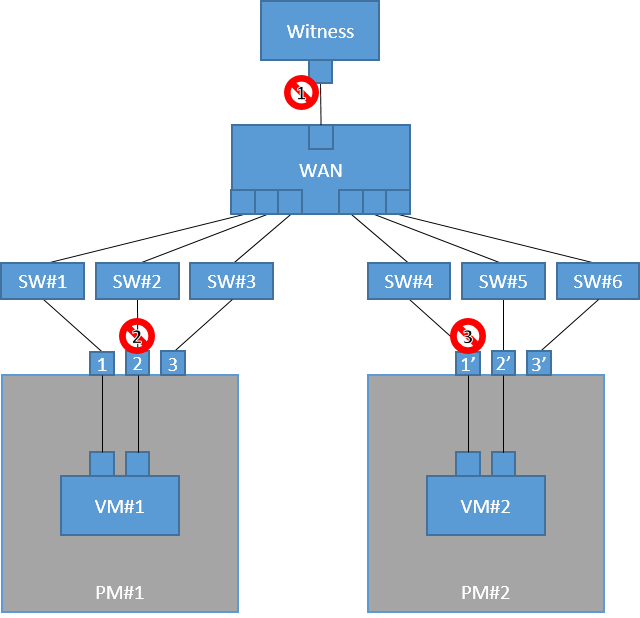
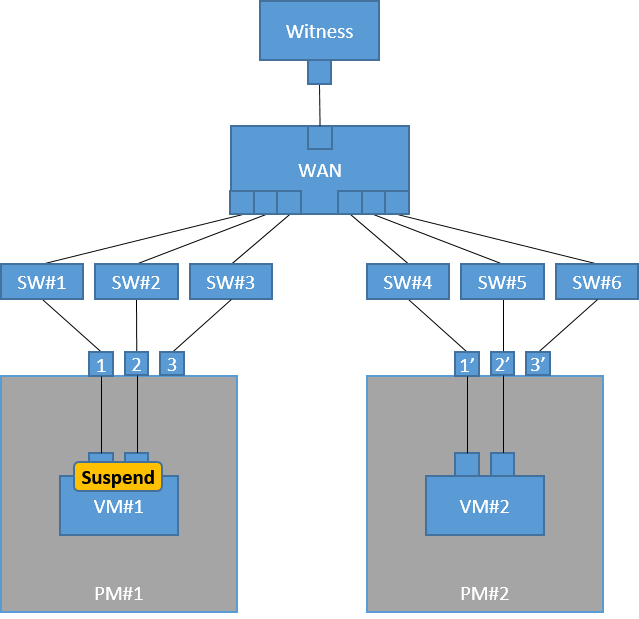
Update README.md to have Forced Stop Test.

diff --git a/README.md b/README.md
@@ -26,32 +26,45 @@ This document describes the test for network and the expected results for HA/DR 
 
 ## Network Partition test
 
-Start from All Green State that FOG runs on VM#1. Disconnecting VM#1 from the cluster, then VM#1 acknowledges itself as isolated and executes suicide (ESD) to maintain consistency.
+Start from All Green State that FOG runs on VM#1. Disconnecting VM#1 from the cluster, then VM#1 acknowledges itself as isolated from the cluster and executes suicide (ESD) to maintain consistency of the system.
 
 ![Pic.1](./image1.png)
 
-    
 | No. | Operation | Result |
 |--   |--         |--      |
-| 1.  | Remove the network cable from `NIC 1` and `NIC 2` | Wait for ESD of `VM#1` and failover to `VM#2`. Make sure the business continues.
-| 2.  | Connect the network cable to `NIC 1` and `NIC 2` then boot `VM#1` | Wait for All Green State.
-| 3.  | Remove the network cable from `NIC 1'` and `NIC 2'` | Wait for ESD of `VM#2` and failover to `VM#1`. Make sure the business continues.
-| 4.  | Connect the network cable to `NIC 1'` and `NIC 2'` then boot `VM#2`| Wait for All Green State.
+| 1.  | Remove the network cable from NIC `1` and NIC `2`. | Wait for ESD of `VM#1` and for failover to `VM#2`. Make sure the business continues.
+| 2.  | Connect the network cable to NIC `1` and NIC `2` then boot `VM#1`. | Wait for All Green State.
+| 3.  | Remove the network cable from NIC `1'` and NIC `2'`. | Wait for ESD of `VM#2` and for failover to `VM#1`. Make sure the business continues.
+| 4.  | Connect the network cable to NIC `1'` and NIC `2'` then boot `VM#2`.| Wait for All Green State.
+
+## Forced Stop test
+
+Start from All Green State that FOG runs on `VM#1`. Suspending `VM#1` to simulate delayed processing. `VM#2` acknowledges HBTO of `VM#1`, then processing failover. On the failover, `VM#1` is stopped (powered off) by the Forced Stop function. Confirm `VM#1` can be powered on and cannot be resumed.
+
+![Pic.2](./image2.png)
+
+| No. | Operation | Result |
+|--   |--         |--      |
+| 1.  | Suspend `VM#1` by the hypervisor manager. | Wait for HBTO of `VM#1` and for failover to `VM#2`. Make sure `VM#1` becomes stopped (power-off) state and the business continues.
+| 2.  | Power-on `VM#1`. | Wait for All Green State.
+| 3.  | Suspend `VM#2` by the hypervisor manager. | Wait for HBTO of `VM#2` and for failover to `VM#1`. Make sure `VM#2` becomes stopped (power-off) state and the business continues.
+| 4.  | Power-on `VM#2`. | Wait for All Green State.
 
 
 ## Multiple Failures test
 
-Even if an HA cluster is used, the system may stop. This test is aim to have an experience one of such cases.
+Even if an HA cluster is used, the system may stop on multiple failures. This test aims to have an experience for one of such cases.
 
-**In general operation, when an HA cluster has the first failure, it is expected to be repaired before the second failure.**
 
-This also starts from All Green State that FOG runs on VM#1. Disconnect the Witness, secondary heartbeat network, and primary heartbeat network.
-In VM#1 and VM#2 view, the both consider the other to be dead. At the same time, the both can not communicate with the Witness. VM#1 considers itself as isolated from the cluster and executes suicide (ESD), and VM#2 do the same, thus the business gets outage.
+**In general system operation, when an HA cluster has the first and single failure, it is expected to be repaired before the second and multiple failure.**
 
-![Pic.2](./image2.png)
-    
+This also starts from All Green State that FOG runs on `VM#1`. Disconnect the Witness, secondary heartbeat network, and primary heartbeat network.
+In `VM#1` and `VM#2` view, the both consider the other to be dead. At the same time, the both can not communicate with the `Witness`. `VM#1` considers itself as isolated from the cluster and executes suicide (ESD), and `VM#2` do the same, thus the business gets outage.
+
+![Pic.3](./image3.png)
+
 | No. | Operation | Result |
 |--   |--         |--      |
 | 1.  | Remove the network cable from `Witness` | Wait for HBTO of `Witness` and make sure the business continues. |
-| 2.  | Remove the network cable from `NIC 2` of `PM#1` (for secondary HB) | Wait for HBTO for secondary HB and make sure the business continues. |
-| 3.  | Remove the network cable from `NIC 1'` of `PM#2` (for primary HB) | Wait for ESD of `SV#1` and `SV#2`. Confirm the stop of the business.|
+| 2.  | Remove the network cable from NIC `2` of `PM#1` (for secondary HB) | Wait for HBTO for secondary HB and make sure the business continues. |
+| 3.  | Remove the network cable from NIC `1'` of `PM#2` (for primary HB) | Wait for ESD of `SV#1` and `SV#2`. Confirm the stop of the business.|
